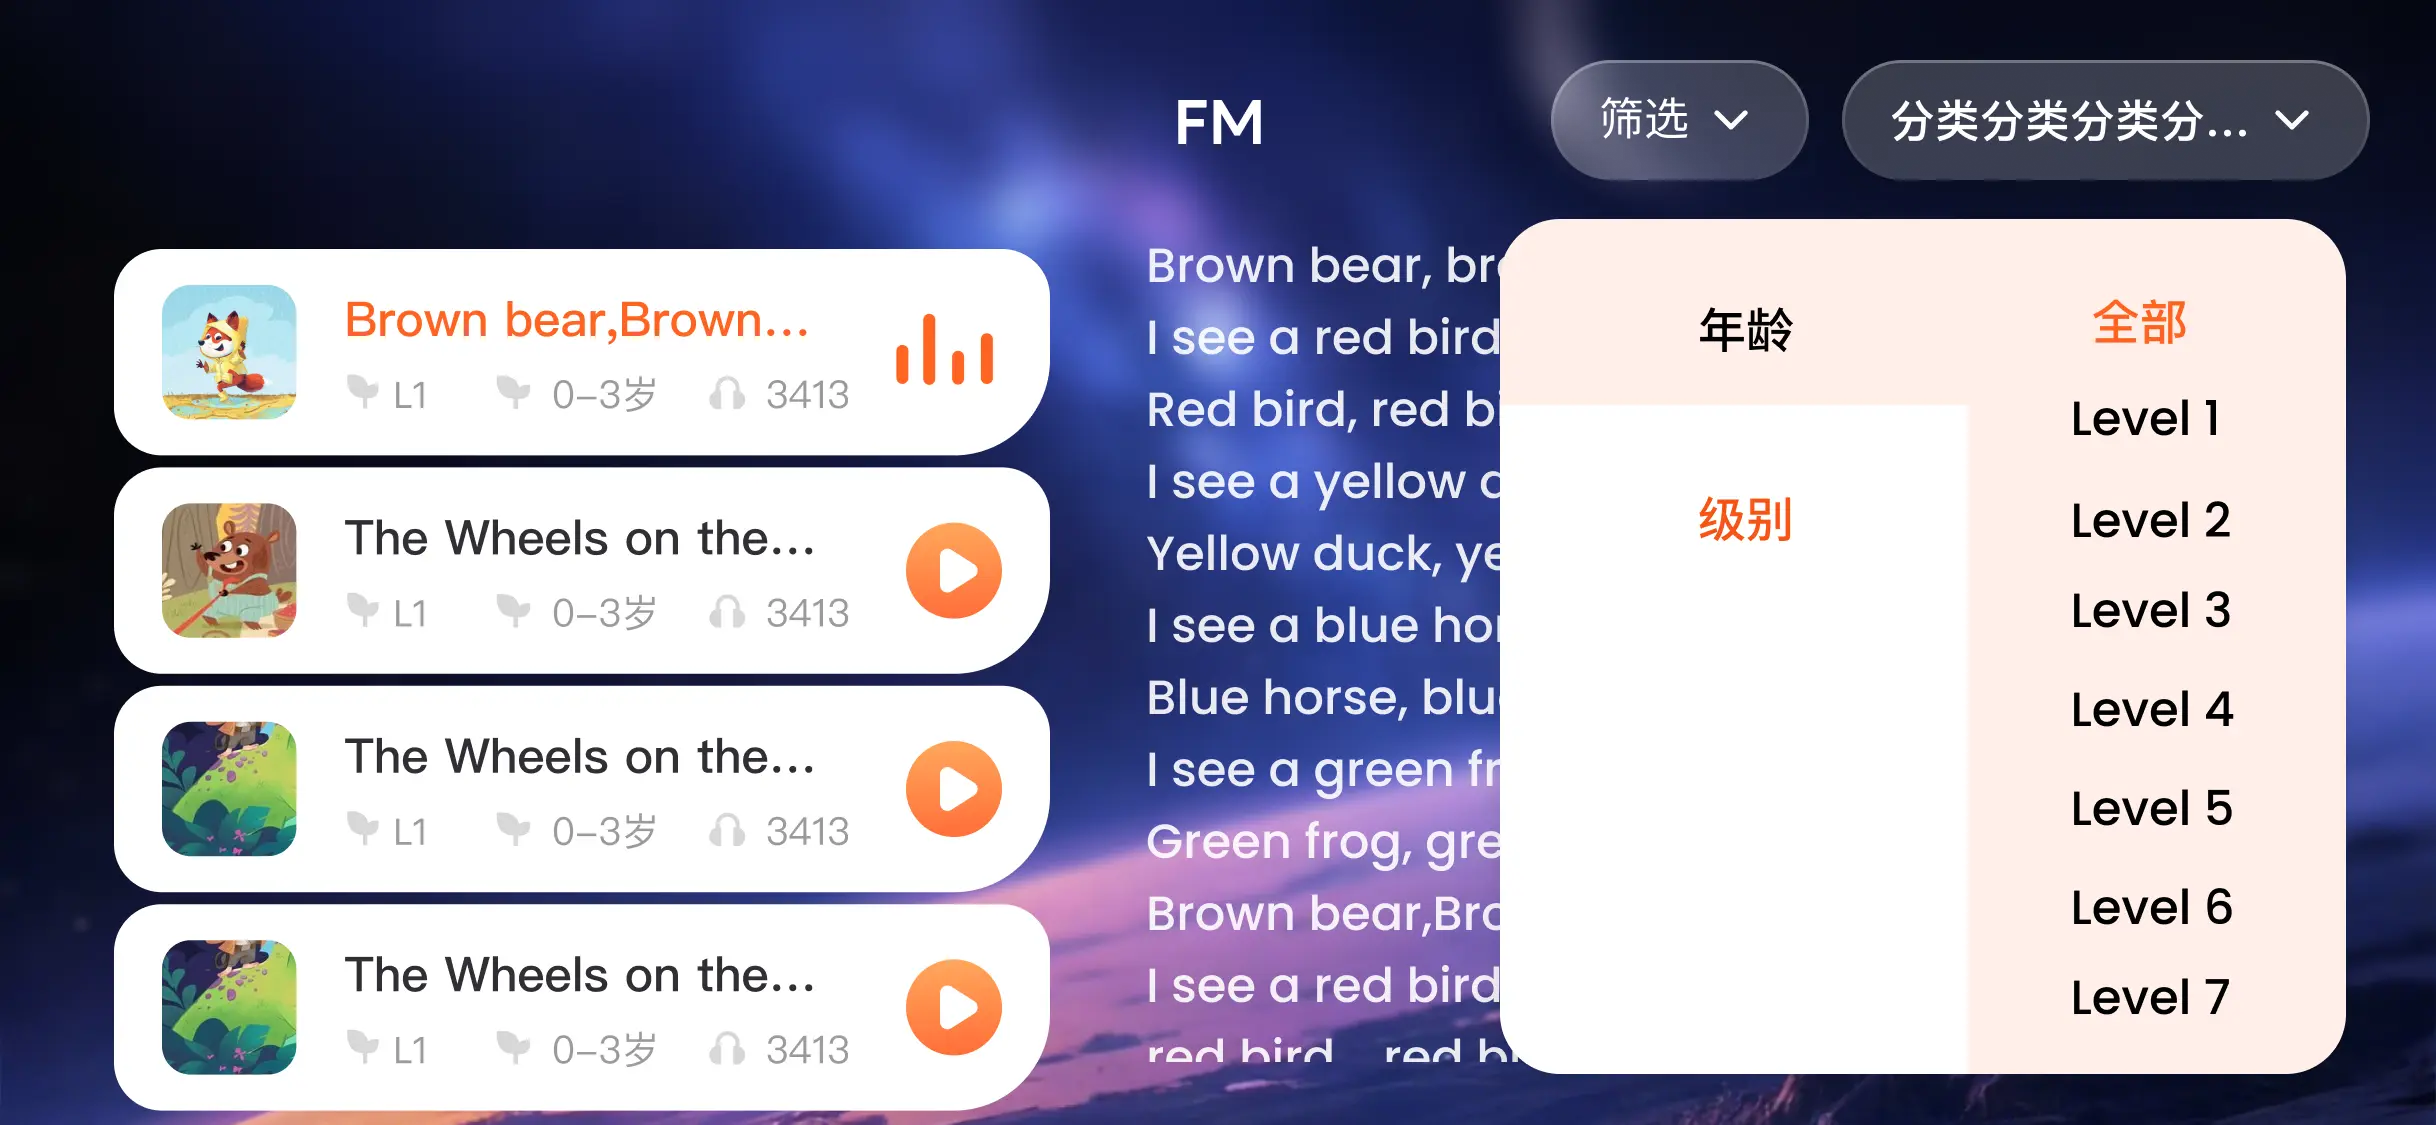
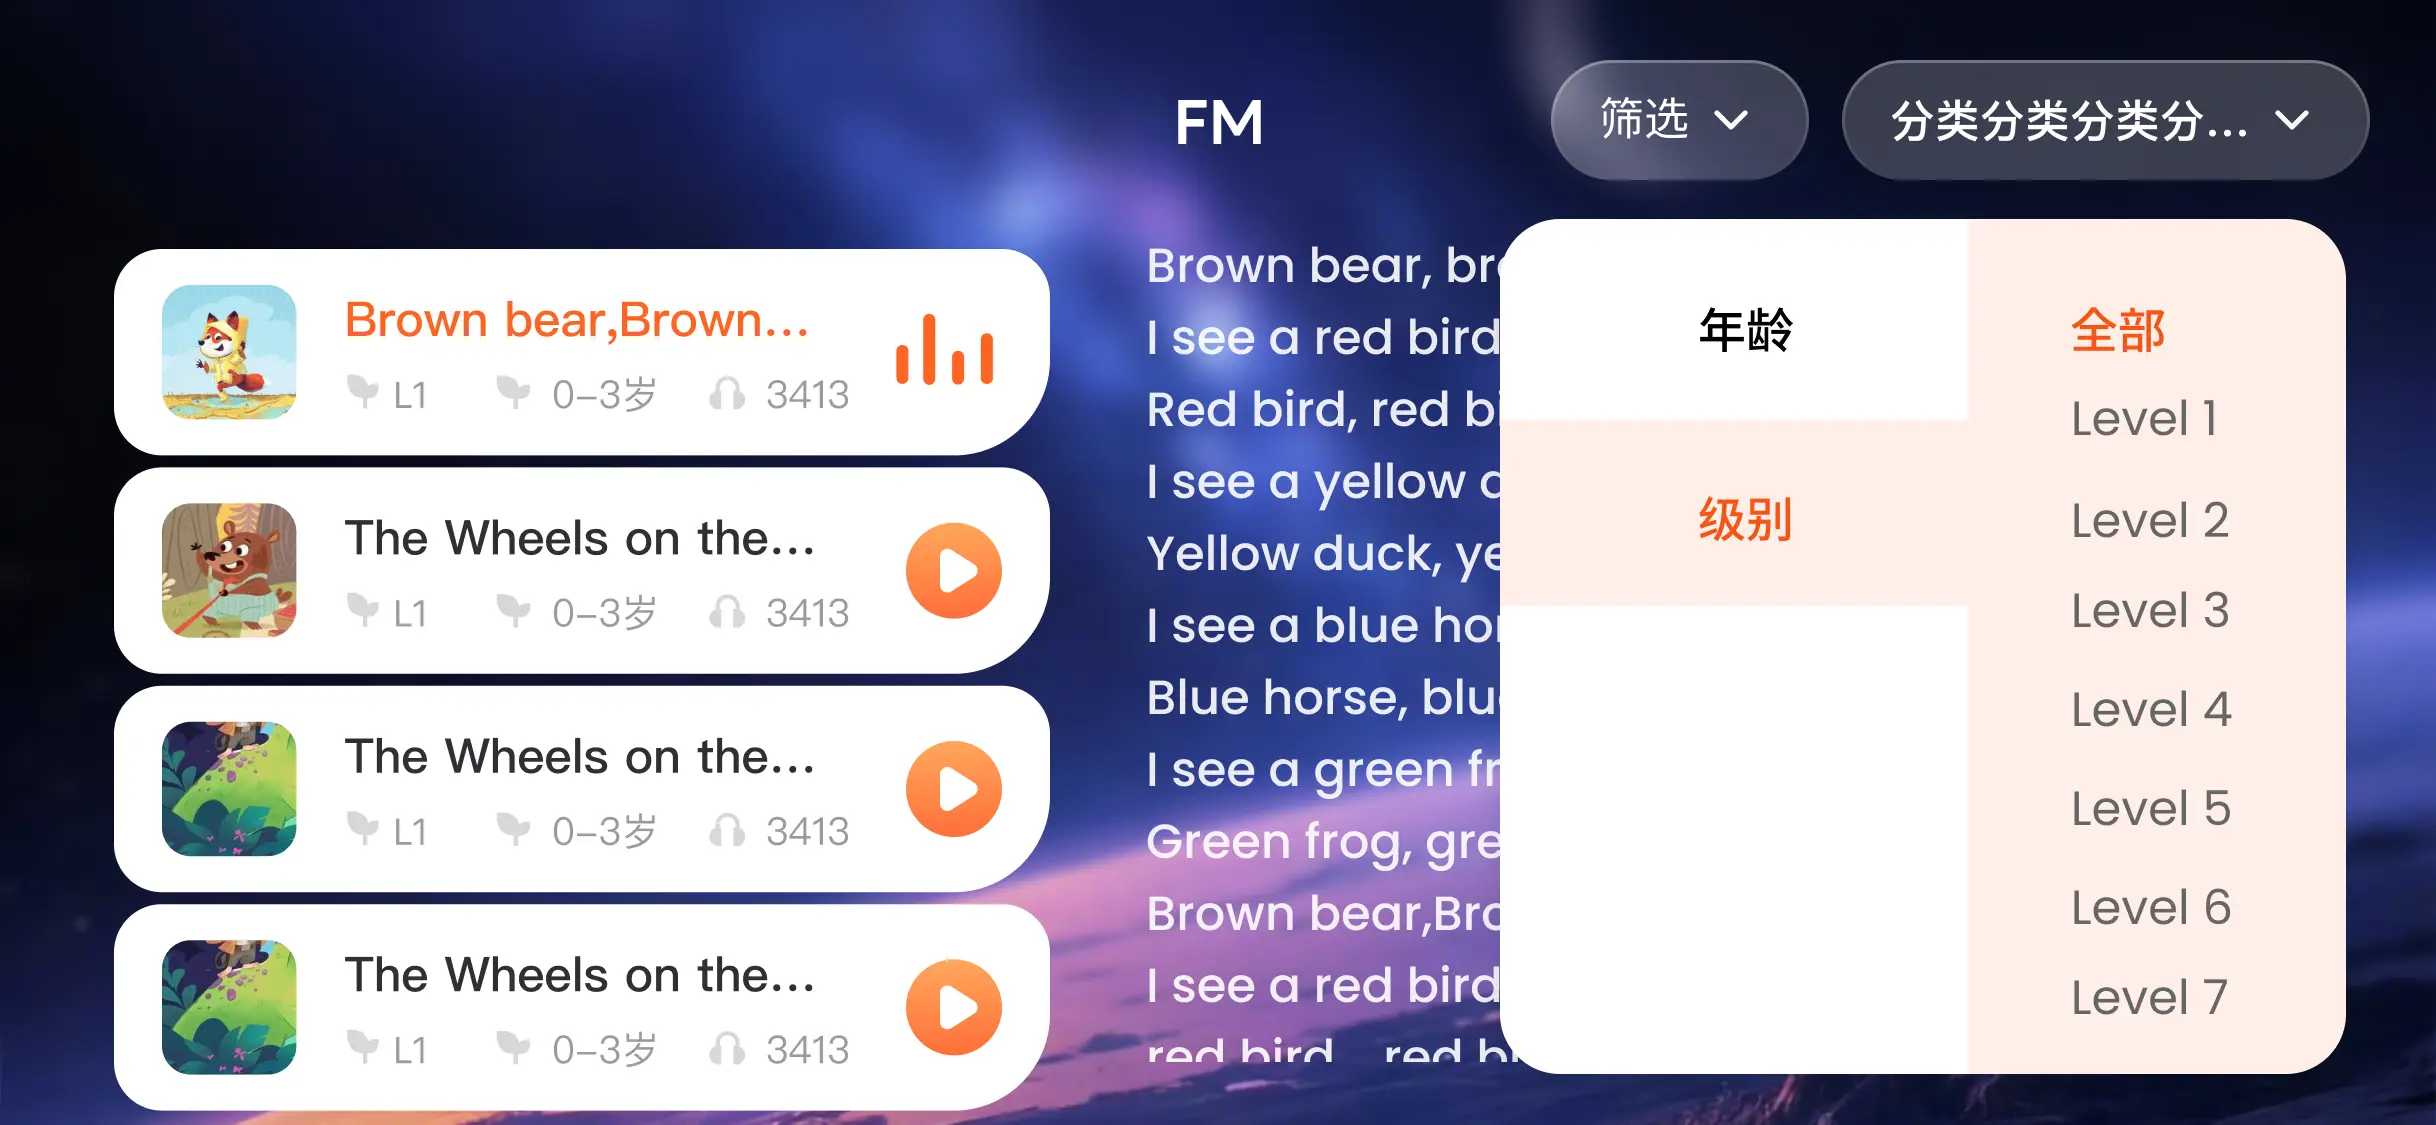
Replace FM level filter artwork

diff --git a/final-ui.css b/final-ui.css
@@ -1152,7 +1152,7 @@
 .fm-progress { position:absolute; left:55%; top:86%; z-index:8; width:31.4%; height:18px; margin:0; opacity:.02; cursor:pointer; }
 .fm-filter-panel,.fm-category-panel { position:absolute; inset:0; z-index:10; pointer-events:none; }
 .fm-filter-panel button,.fm-category-panel button { position:absolute; padding:0; border:0; color:transparent; background:transparent; cursor:pointer; pointer-events:auto; }
-.fm-filter-tab--age { left:56.8%; top:20.2%; width:19%; height:16.5%; }
+.fm-filter-tab--age { left:61.6%; top:19.5%; width:19.2%; height:17.9%; }
 .fm-filter-tab--level { left:56.8%; top:36.7%; width:19%; height:59.4%; }
 .fm-filter-options button { left:75.8%; width:15.8%; height:10.5%; }
 .fm-filter-options button:nth-child(1) { top:20.5%; }
@@ -1160,9 +1160,15 @@
 .fm-filter-options button:nth-child(3) { top:49%; }
 .fm-filter-options button:nth-child(4) { top:61%; }
 .fm-filter-options button:nth-child(5) { top:73%; }
-.fm-filter-options--level button:nth-child(6) { top:75%; }
-.fm-filter-options--level button:nth-child(7) { top:83%; }
-.fm-filter-options--level button:nth-child(8) { top:89%; }
+.fm-filter-options--level button { left:80.8%; width:15.4%; height:8.5%; }
+.fm-filter-options--level button:nth-child(1) { top:20.5%; }
+.fm-filter-options--level button:nth-child(2) { top:34.9%; }
+.fm-filter-options--level button:nth-child(3) { top:43.5%; }
+.fm-filter-options--level button:nth-child(4) { top:52.1%; }
+.fm-filter-options--level button:nth-child(5) { top:60.8%; }
+.fm-filter-options--level button:nth-child(6) { top:69.5%; }
+.fm-filter-options--level button:nth-child(7) { top:78.2%; }
+.fm-filter-options--level button:nth-child(8) { top:86.8%; }
 .fm-category-panel button { width:16.4%; height:19%; border-radius:34px; }
 .fm-category-panel button:nth-child(1) { left:2.7%; top:39.7%; }
 .fm-category-panel button:nth-child(2) { left:20.9%; top:39.7%; }

diff --git a/index.html b/index.html
@@ -13,7 +13,7 @@
       rel="stylesheet"
     />
     <link rel="stylesheet" href="styles.css" />
-    <link rel="stylesheet" href="final-ui.css?v=95" />
+    <link rel="stylesheet" href="final-ui.css?v=96" />
   </head>
   <body>
     <div class="device-stage">
